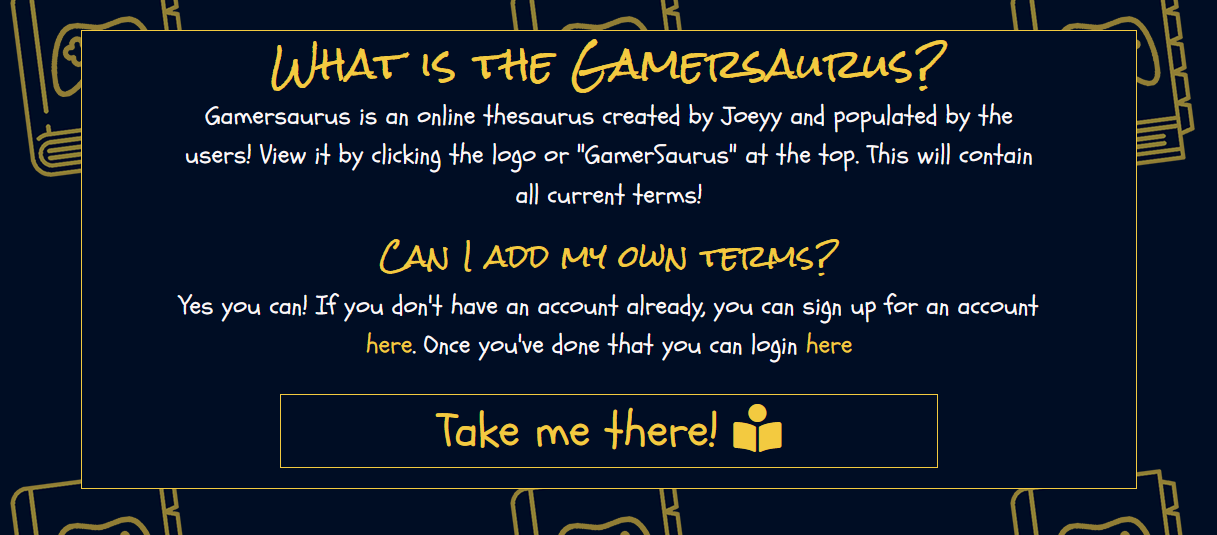
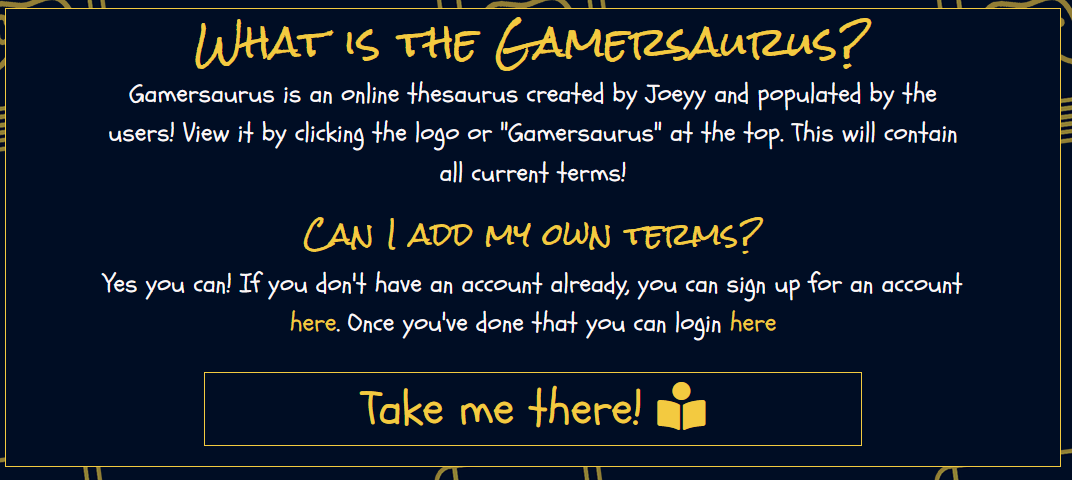
[DOCS] Added site owner goal testing in TESTIND.md and fixed various typo/grammar/capitalization issues

diff --git a/templates/index.html b/templates/index.html
@@ -5,7 +5,7 @@
         <h1>What is the Gamersaurus?</h1>
             <p class="homeText altFont">
                 Gamersaurus is an online thesaurus created by Joeyy and populated by the users!
-                View it by clicking the logo or "GamerSaurus" at the top. This will contain all current terms!
+                View it by clicking the logo or "Gamersaurus" at the top. This will contain all current terms!
             </p>
         </div>
         <div class="col s12">

diff --git a/static/css/style.css b/static/css/style.css
@@ -143,6 +143,10 @@ nav {
     color: #f3ca40;
 }
 
+.navIcon {
+    font-size: 8vw;
+}
+
 nav a, .sidenav li a, nav ul a, .helper-text {
     color: #f3ca40;
 }
@@ -382,7 +386,6 @@ textarea {
 
     /* Nav */
     .navIcon {
-        font-size: 8vw;
         padding-top: 3vh;
     }
     .navMenuMobile li a {
@@ -477,7 +480,7 @@ textarea {
 
     h2 {
         font-size: 2rem;
-        margin: 0;
+        margin: 1vh 0;
     }
 
     .flashes h2 {

diff --git a/README.md b/README.md
@@ -205,7 +205,7 @@ Included in the **header** is:
 
 Included in the **footer** is:
 
-+ **Social media links**: These will take you to the various social media connnections for the site. (currently the links will point to the homepage for the associated social media site as the brand's socials do not exist at this point in time).
++ **Social media links**: These will take you to the various social media connnections for the site. (Currently the links will point to the homepage for the associated social media site as the brand's socials do not exist at this point in time).
 
 Included in **index.html** is:
 
@@ -217,7 +217,6 @@ Included in **gamersaurus.html** is:
 + **View all terms currently stored**: Contains all the terms currently stored within the thesaurus collection.
     + Each term is contained within a collapsible which displays the term, and edit/delete buttons if the session user is the user who matches the ```submitted_by``` value within the database.
     + Each term can be expanded to show data in the following form:
-
         ```
         Definition: term.definition
         Example: term.example
@@ -241,7 +240,7 @@ Included in **add_term.html** is:
     + There are checks to make sure:
         + The term does not already exist in the database.
         + The data submitted passes all validation.
-            + Validation for no spaces except between words was achieved through regex (see credits)
+            + Validation for no spaces except between words was achieved through regex (see credits).
 + **Add Term button**: Once the field input passes all validation this button can pressed to add the term.
 
 Included in **edit_term.html** is:
@@ -254,7 +253,7 @@ Included in **register.html** is:
 + **Registration form**: Contains fields for username and password (with associated validation).
     + This functionality is handled by python upon form submission.
     + There are checks to make sure:
-        + The username doesn't already exist.
+        + The username does not already exist.
         + The two password fields match.
         + The data submitted passes all validation.
 + **Register Button**: Submits the form once validation has passed, creates the user and redirects them to their profile.
@@ -280,9 +279,9 @@ Included in **contact.html** is:
 
 ### Features to be added
 
-**Pagination** - This would take control if the amount of terms went over a threshold required too much work for the time available for the project.
-**Allowing extra examples** - Allow users to add examples to other peoples terms but must be confirmed by the term submitter.
-    + This requires a lot more database/python knowledge and time so I'm including this under features to be added.
++ **Pagination** - This would take control if the amount of terms went over a threshold required too much work for the time available for the project.
++ **Allowing extra examples** - Allow users to add examples to other people's terms but must be confirmed by the term submitter.
+    + This requires a lot more database/python knowledge and time so I am including this under features to be added.
 
 #### [Back to top](#contents)
 
@@ -307,8 +306,8 @@ Included in **contact.html** is:
 + [FavIcon](https://favicon.io/) - I used this tool to convert an image I made into icon form and provide the code (stated in HTML comments) to link this icon to index.html.
 + [Am I Responsive?](http://ami.responsivedesign.is/) - I used this tool to easily display the responsiveness of my site for my README.md introduction.
 + [emailJS](https://www.emailjs.com/) - I used this tool to add functionality in the form of an email service from the form in the contact page.
-+ [jQuery](https://jquery.com/) - I used the jQuery library to provide access to a multitude of functions/methods. Most notably materialize collapsible, modal, sidenav and validate.
-+ [Regexr](https://regexr.com/) - I used this tool to test different RegEx syntax to help with my input field validation patterns.
++ [jQuery](https://jquery.com/) - I used the jQuery library to provide access to a multitude of functions/methods. Most notably modal, materialize collapsible, sidenav and validate.
++ [Regexr](https://regexr.com/) - I used this tool to test different regex syntax to help with my input field validation patterns.
 + [Heroku](https://dashboard.heroku.com/) - A cloud platform that was used to deploy and run the code pushed to the associated GitHub repository.
 + [MongoDB](https://www.mongodb.com/) - A cloud database service that allows for creation, modification, deletion and storage of database collections used in the application.
 + [Materialize](https://materializecss.com/) - A CSS framework that allows for responsive design to be applied to the entire site.
@@ -417,12 +416,12 @@ This section includes areas/sections of code and properties I was unaware of. I 
 
     ```$( "#target" ).submit(function( event ) { alert( "Handler for .submit() called." ); event.preventDefault(); });```
 
-    + I adapted this code to check when the submit function on the contactForm was activated and learned the .preventDefault() method makes it so only my code runs and this solved my issue within JSHint.
+    + I adapted this code to check when the submit function on my contact form was activated and learned the ```.preventDefault()``` method makes it so only my code runs and this solved my issue within JSHint.
 
 + **Materialize collapsible accordion** - When following the mini project in the Back End development module of the course I used Materialize CSS framework and their accordion component as used in the video.
     + I decided to use it in this project to display the term information, the documentation for it is [here](https://materializecss.com/collapsible.html).
 
-+ **Regex to allow spaces between words but not multiple** - I attempted to create this regex myself and came close but could not crack it.
++ **regex to allow spaces between words but not multiple** - I attempted to create this regex myself and came close but could not crack it.
     + After searching around I found [this post](https://stackoverflow.com/questions/15472764/regular-expression-to-allow-spaces-between-words) where there was an answer.
         + The completed regex is ```^[a-zA-Z0-9_]+( [a-zA-Z0-9_]+)*$``` and functions as intended.
 
@@ -433,12 +432,12 @@ This section includes areas/sections of code and properties I was unaware of. I 
 + **Password check code** - I included this in my credits as was unaware of ```keyup``` and ```.val()``` within jQuery.
     + I knew I had to check for a keyboard input on my password fields and felt jQuery would be the easiest way to achieve this. After looking at the documentation for keyboard events in jQuery [here](https://api.jquery.com/category/events/keyboard-events/) I decided using ```keyup``` would be the most suitable fit.
     + I tested it to make sure it was triggering by changing the colour of the input field itself.
-    + The next step was to check whether the inputs actually matched. I tried using ```if ($('#password') == $('#passwordconfirm')) {``` but it didn't work.
+    + The next step was to check whether the inputs actually matched. I tried using ```if ($('#password') == $('#passwordconfirm')) {``` but it did not work.
         + I used the console to log it and found out it was passing objects so I needed to find the value within those objects.
-        + After consulting the jQuery form documentation [here](https://api.jquery.com/category/forms/) I decided usnig the ```.val()``` method would produce the result I needed.
+        + After consulting the jQuery form documentation [here](https://api.jquery.com/category/forms/) I decided using the ```.val()``` method would produce the result I needed.
 
-+ **Password check Regex** - After an hour of trying myself I looked around for a password regex to be at between 5 and 20 characters contain one uppercase character, one number and allow for symbols.
-    + I was able to find [this post](https://regexr.com/3bfsi) which is a Regex site I've used before. It contained the code:
++ **Password check regex** - After an hour of trying myself I looked around for a password regex to be between 5 and 20 characters containing one uppercase character, one number and allowing for symbols.
+    + I was able to find [this post](https://regexr.com/3bfsi) which is a regex site I have used before. It contained the code:
         ```^(?=.*\d)(?=.*[a-z])(?=.*[A-Z])(?=.*[a-zA-Z]).{8,}$``` which was able to provide the majority of what I wanted as I only had to change the 8 to a 5 and add 20 for the max.
 
 ### Media

diff --git a/TESTING.md b/TESTING.md
@@ -24,7 +24,7 @@ I used [JSHint](https://jshint.com) to check the javascript file in my project t
 
         ![JS Validation](static/images/testing/js-test.png)
 
-    + I consulted with a few members of the [Code Institute](https://codeinstitute.net/) Slack community about this and I have found out it is not an error, it is that jsHint does not recognize it as it is defined in the base.html file. As such my code passed with no errors.
+    + I consulted with a few members of the [Code Institute](https://codeinstitute.net/) Slack community about this and I have found out it is not an error; it is that jsHint does not recognize it as it is defined in the base.html file. As such my code passed with no errors.
 
 
 I used [PEP8 online](http://pep8online.com/) to test my Python code against PEP8 standards.
@@ -126,7 +126,7 @@ I tested the appearance and responsiveness of the website across 6 different bro
             ![Header](static/images/testing/userstories/user3header.png)
 
         + All the buttons contain text pertaining to their action (Add term, Edit Term, Delete, Submit) and perform the correct action.
-        + The footer contains external links and open in a new tab for user retention.
+        + The footer contains external links for the brands socials and opens in a new tab for user retention.
             
             _Footer_
             ![Footer](static/images/testing/userstories/user3footer.png)
@@ -185,11 +185,50 @@ I tested the appearance and responsiveness of the website across 6 different bro
 + #### Site Owner Goals
 
 	+ As a **site owner**, I want to provide the user with the essential information required to understand the site's purpose.
+        + The description on the landing page of the site achieves this.
+
+            _Landing page_
+            ![Landing page](static/images/testing/userstories/user2.png)
+
 	+ As a **site owner**, I want the user to be able to navigate to other areas of the site.
+        + The header in "base.html" provides all links and has templating to ensure users only have access to pages/features they should.
+            
+            _Header_
+            ![Header](static/images/testing/userstories/user3header.png)
+        
+        + The header collapses into a mobile side nav on small devices to ensure users can always access it.
+
+            _Mobile Nav_ 
+            ![Mobile Nav](static/images/testing/userstories/siteowner2mobile.png)
+            
+        + All the buttons contain text pertaining to their action (Add term, Edit Term, Delete, Submit) and perform the correct action which allow for intuitive navigation.
 	+ As a **site owner**, I want the user to be able to view the thesaurus without having an account.
+        + On the Terms page (gamersaurus.html) which is **accessible to all users** there is a collapsible accordion that contains all terms currently added to the site.
+
+            _Terms List_
+            ![Terms List](static/images/testing/userstories/user1.png)
+        + When a user taps/clicks on a term it expands to show the information stored in the database.
+
+            _Example of Term info_
+            ![Term Example](static/images/testing/userstories/user1term.png)
+
 	+ As a **site owner**, I want the user to be able to seemlessly make an account and submit terms to the site.
+        + Upon loading the website the user is presented with Home (index.html) which contains a paragraph with register and login links highlighted.
+
+            _Home Paragraph_
+            ![Home Paragraph](static/images/testing/userstories/siteowner3.png)
+
+        + Once creating an account and logging in the user is redirected to their profile which contains an "Add Term" button allowing for mininal steps for the users to submit their own terms.
+
+            _Profile Add Term_
+            ![Profile Add Term](static/images/testing/userstories/siteowner3profile.png)
+
 	+ As a **site owner**, I want the user to be able to edit and delete terms they have added.
 	+ As a **site owner**, I want to include links to the associated socials for the product.
+        + In the footer I have included three links to the associated socials (Twitter/YouTube/Instagram)
+
+            _Social Media Links_
+            ![Footer](static/images/testing/userstories/user3footer.png)
 
 ### Additional Testing
 
@@ -212,7 +251,7 @@ I tested the appearance and responsiveness of the website across 6 different bro
 + **Users who are logged in**:
     + Are able to:
         + Logout of their account.
-        + View the Terms, Profile, Add, Edit Logout and Contact pages.
+        + View the Terms, Profile, Add, Edit, Logout and Contact pages.
         + View all the terms they have added in their profile page.
         + Add, Edit and Delete terms they have created on both Terms and their Profile.
     + Are not able to:
@@ -220,7 +259,7 @@ I tested the appearance and responsiveness of the website across 6 different bro
         + Access Login page.
 
 **User called "Admin"**:
-+ Are able to Edit/Delete any terms on the site.
++ Is able to Edit/Delete any terms on the site.
 
 **Validation**:
 + Form validation works throughout the site.
